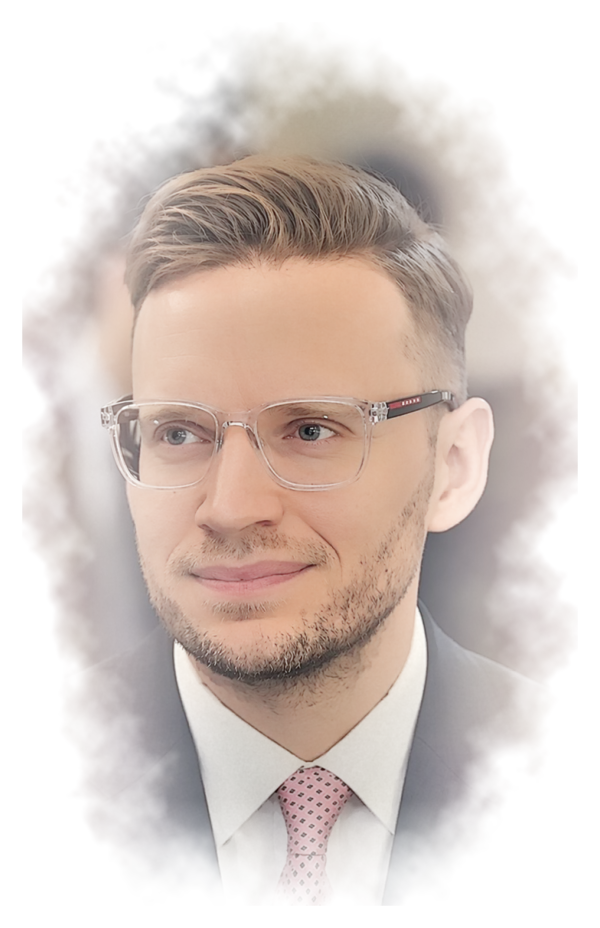
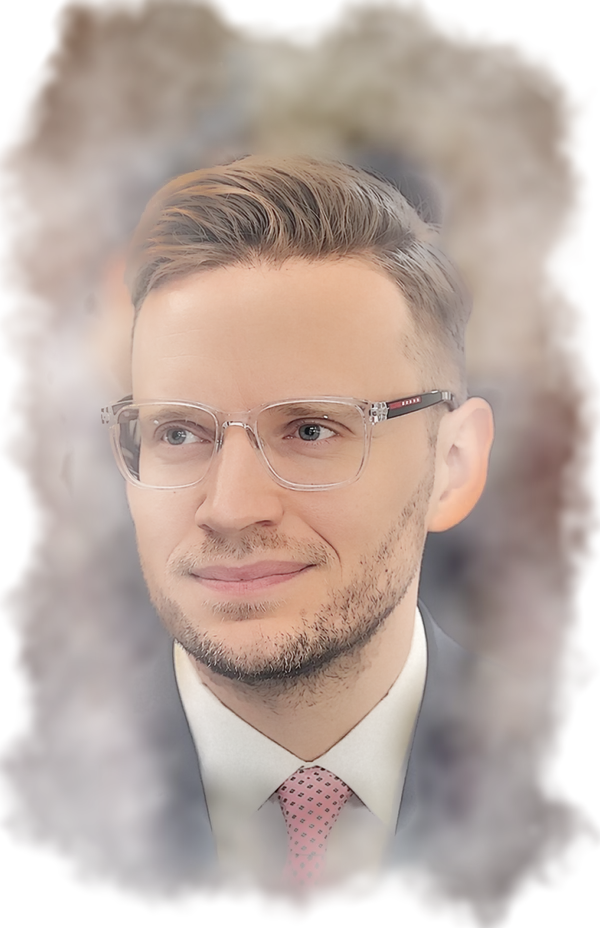
Fill out the background of the watercolour portrait
The painted washes stopped close to the head, so the face looked like
it was showing through a haze. Extend the background washes out to a
ragged edge near the frame and make them denser. The face, framing
and image size are unchanged. The URL version query moves to v=4.

diff --git a/_includes/sidebar.html b/_includes/sidebar.html
@@ -1,6 +1,6 @@
 <aside class="sidebar">
   <div class="author-profile">
-    <img src="{{ '/assets/images/headshot-watercolor.webp?v=3' | relative_url }}" alt="Watercolour portrait of Steven Denney" class="author__avatar author__avatar--full" width="600" height="928">
+    <img src="{{ '/assets/images/headshot-watercolor.webp?v=4' | relative_url }}" alt="Watercolour portrait of Steven Denney" class="author__avatar author__avatar--full" width="600" height="928">
     <h1 class="author__name">Steven Denney</h1>
     <p class="author__title">Assistant Professor<br>Leiden University</p>
 
